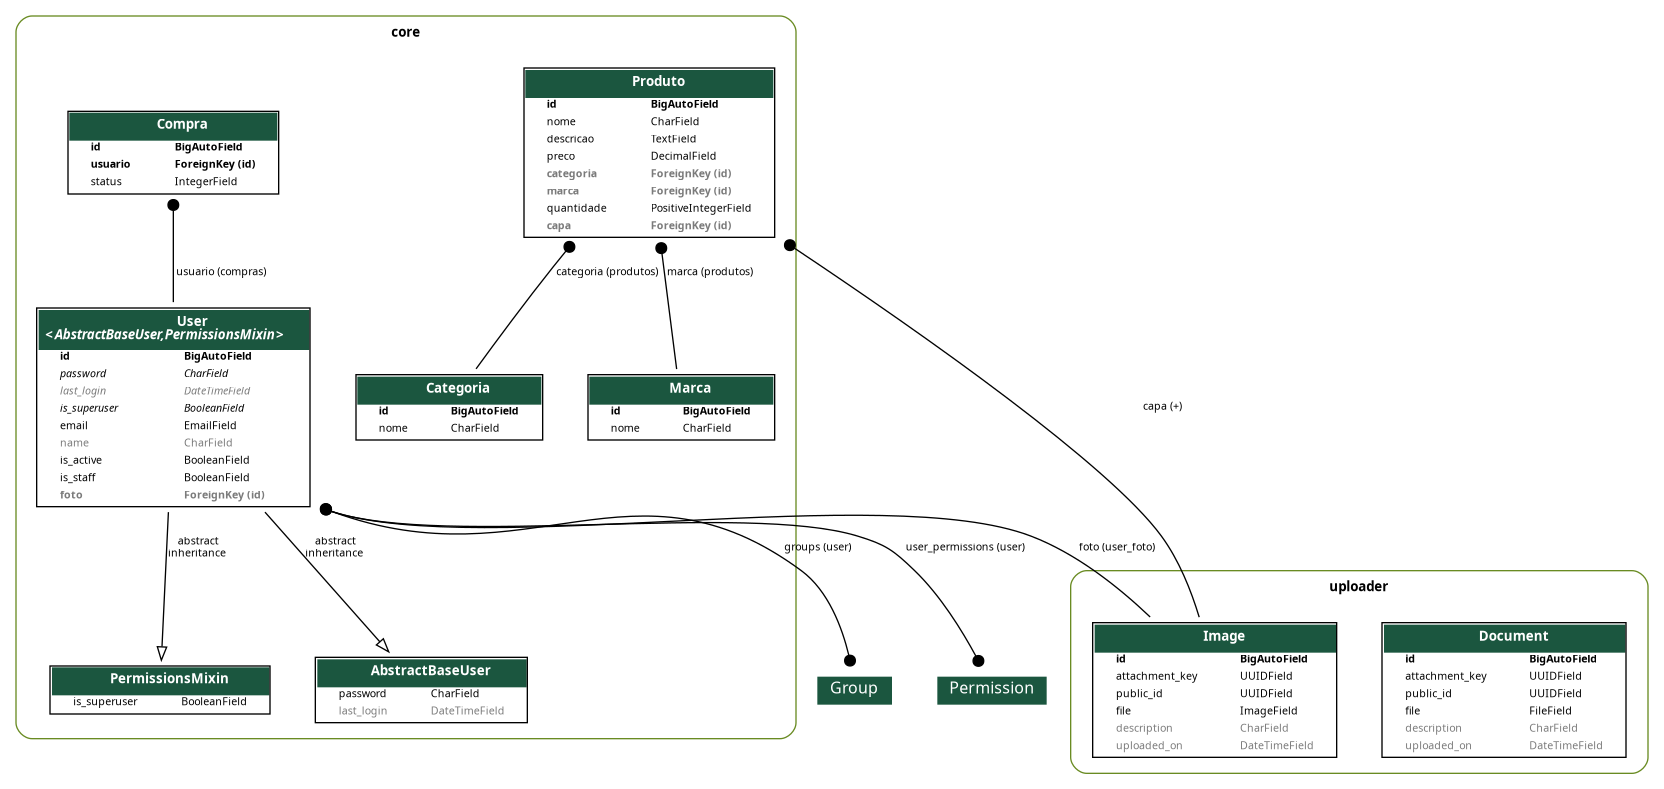
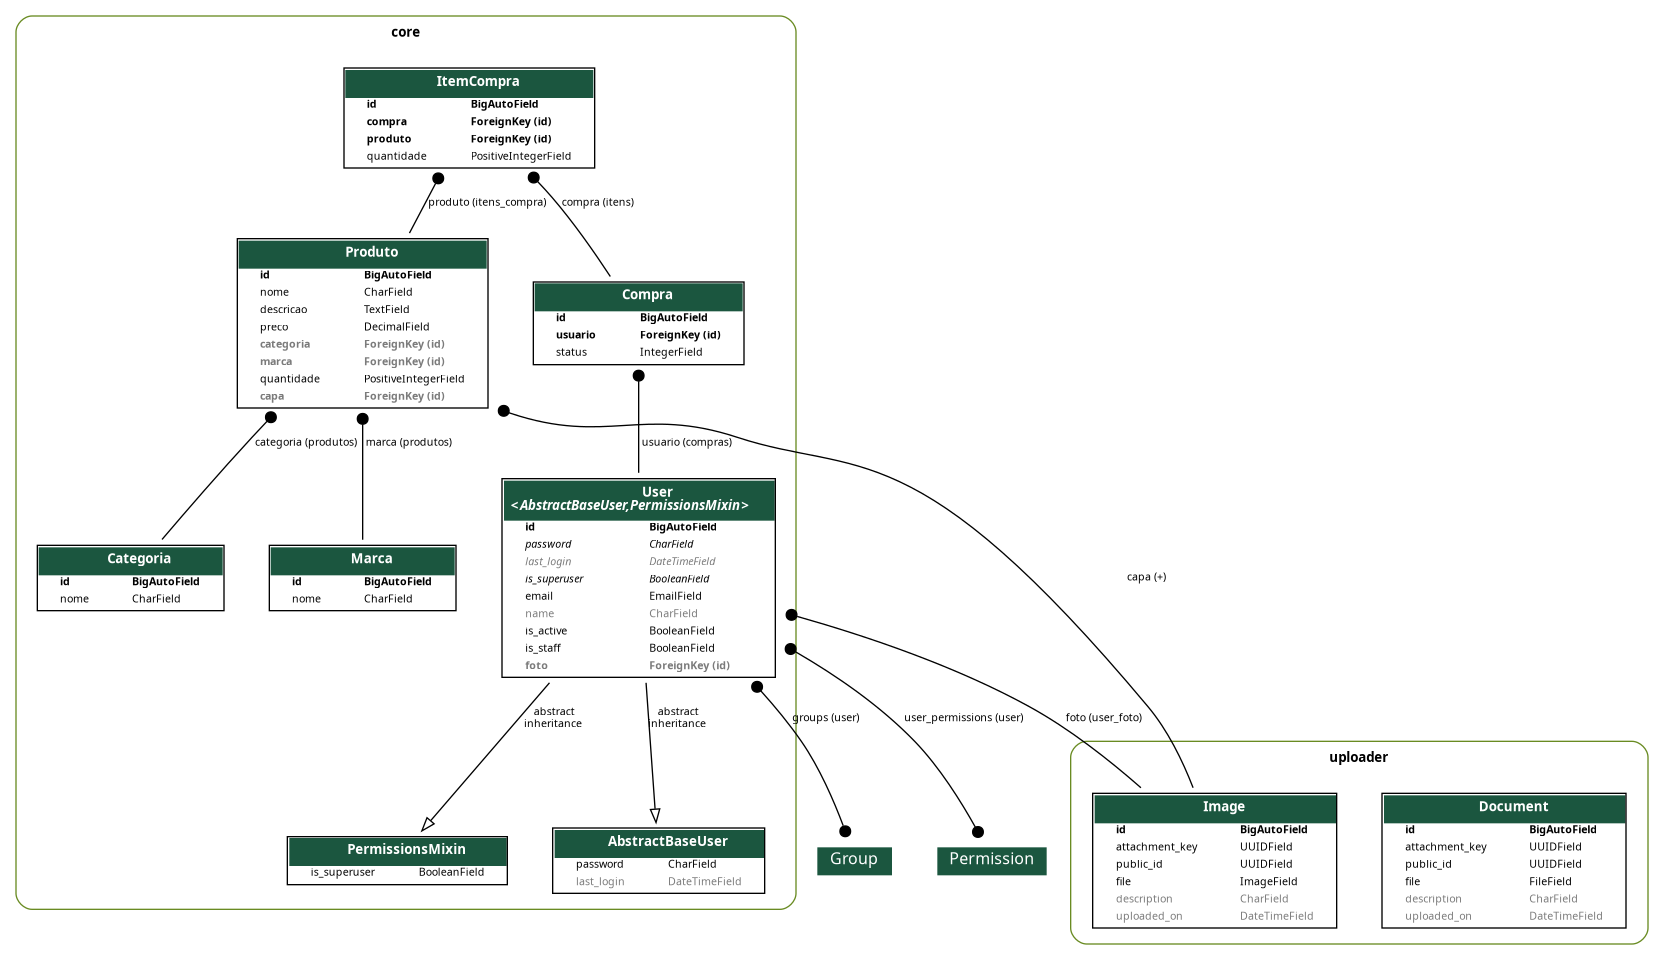
feat 5: criação dos itens da compra

diff --git a/core/models/compra.py b/core/models/compra.py
@@ -1,6 +1,8 @@
 from django.db import models
 
+from .produto import Produto
 from .user import User
+
 
 class Compra(models.Model):
     class StatusCompra(models.IntegerChoices):
@@ -10,4 +12,13 @@ class Compra(models.Model):
         ENTREGUE = 4, 'Entregue'
 
     usuario = models.ForeignKey(User, on_delete=models.PROTECT, related_name='compras')
-    status = models.IntegerField(choices=StatusCompra.choices,  default=StatusCompra.CARRINHO)
+    status = models.IntegerField(choices=StatusCompra.choices, default=StatusCompra.CARRINHO)
+
+
+class ItemCompra(models.Model):
+    compra = models.ForeignKey(Compra, on_delete=models.CASCADE, related_name='itens')
+    produto = models.ForeignKey(Produto, on_delete=models.PROTECT, related_name='itens_compra')
+    quantidade = models.PositiveIntegerField(default=1)
+
+    def __str__(self):
+        return f'{self.produto.nome} - {self.quantidade} - {self.preco_unitario}'

diff --git a/core/migrations/0015_itemcompra.py b/core/migrations/0015_itemcompra.py
@@ -1,0 +1,23 @@
+# Generated by Django 5.2.13 on 2026-07-14 17:49
+
+import django.db.models.deletion
+from django.db import migrations, models
+
+
+class Migration(migrations.Migration):
+
+    dependencies = [
+        ('core', '0014_compra'),
+    ]
+
+    operations = [
+        migrations.CreateModel(
+            name='ItemCompra',
+            fields=[
+                ('id', models.BigAutoField(auto_created=True, primary_key=True, serialize=False, verbose_name='ID')),
+                ('quantidade', models.PositiveIntegerField(default=1)),
+                ('compra', models.ForeignKey(on_delete=django.db.models.deletion.CASCADE, related_name='itens', to='core.compra')),
+                ('produto', models.ForeignKey(on_delete=django.db.models.deletion.PROTECT, related_name='itens_compra', to='core.produto')),
+            ],
+        ),
+    ]

diff --git a/core/admin.py b/core/admin.py
@@ -6,7 +6,7 @@ from django.contrib import admin
 from django.contrib.auth.admin import UserAdmin as BaseUserAdmin
 from django.utils.translation import gettext_lazy as _
 
-from core.models import Categoria, Marca, Produto, User, Compra
+from core.models import Categoria, Compra, Marca, Produto, User
 
 
 @admin.register(Produto)
@@ -26,6 +26,7 @@ class CategoriaAdmin(admin.ModelAdmin):
 class MarcaAdmin(admin.ModelAdmin):
     list_display = ['id', 'nome']
     search_fields = ['nome']
+
 
 @admin.register(Compra)
 class CompraAdmin(admin.ModelAdmin):

diff --git a/core/models/__init__.py b/core/models/__init__.py
@@ -2,4 +2,4 @@ from .user import User
 from .produto import Produto
 from .categoria import Categoria
 from .marca import Marca
-from .compra import Compra
+from .compra import Compra, ItemCompra
